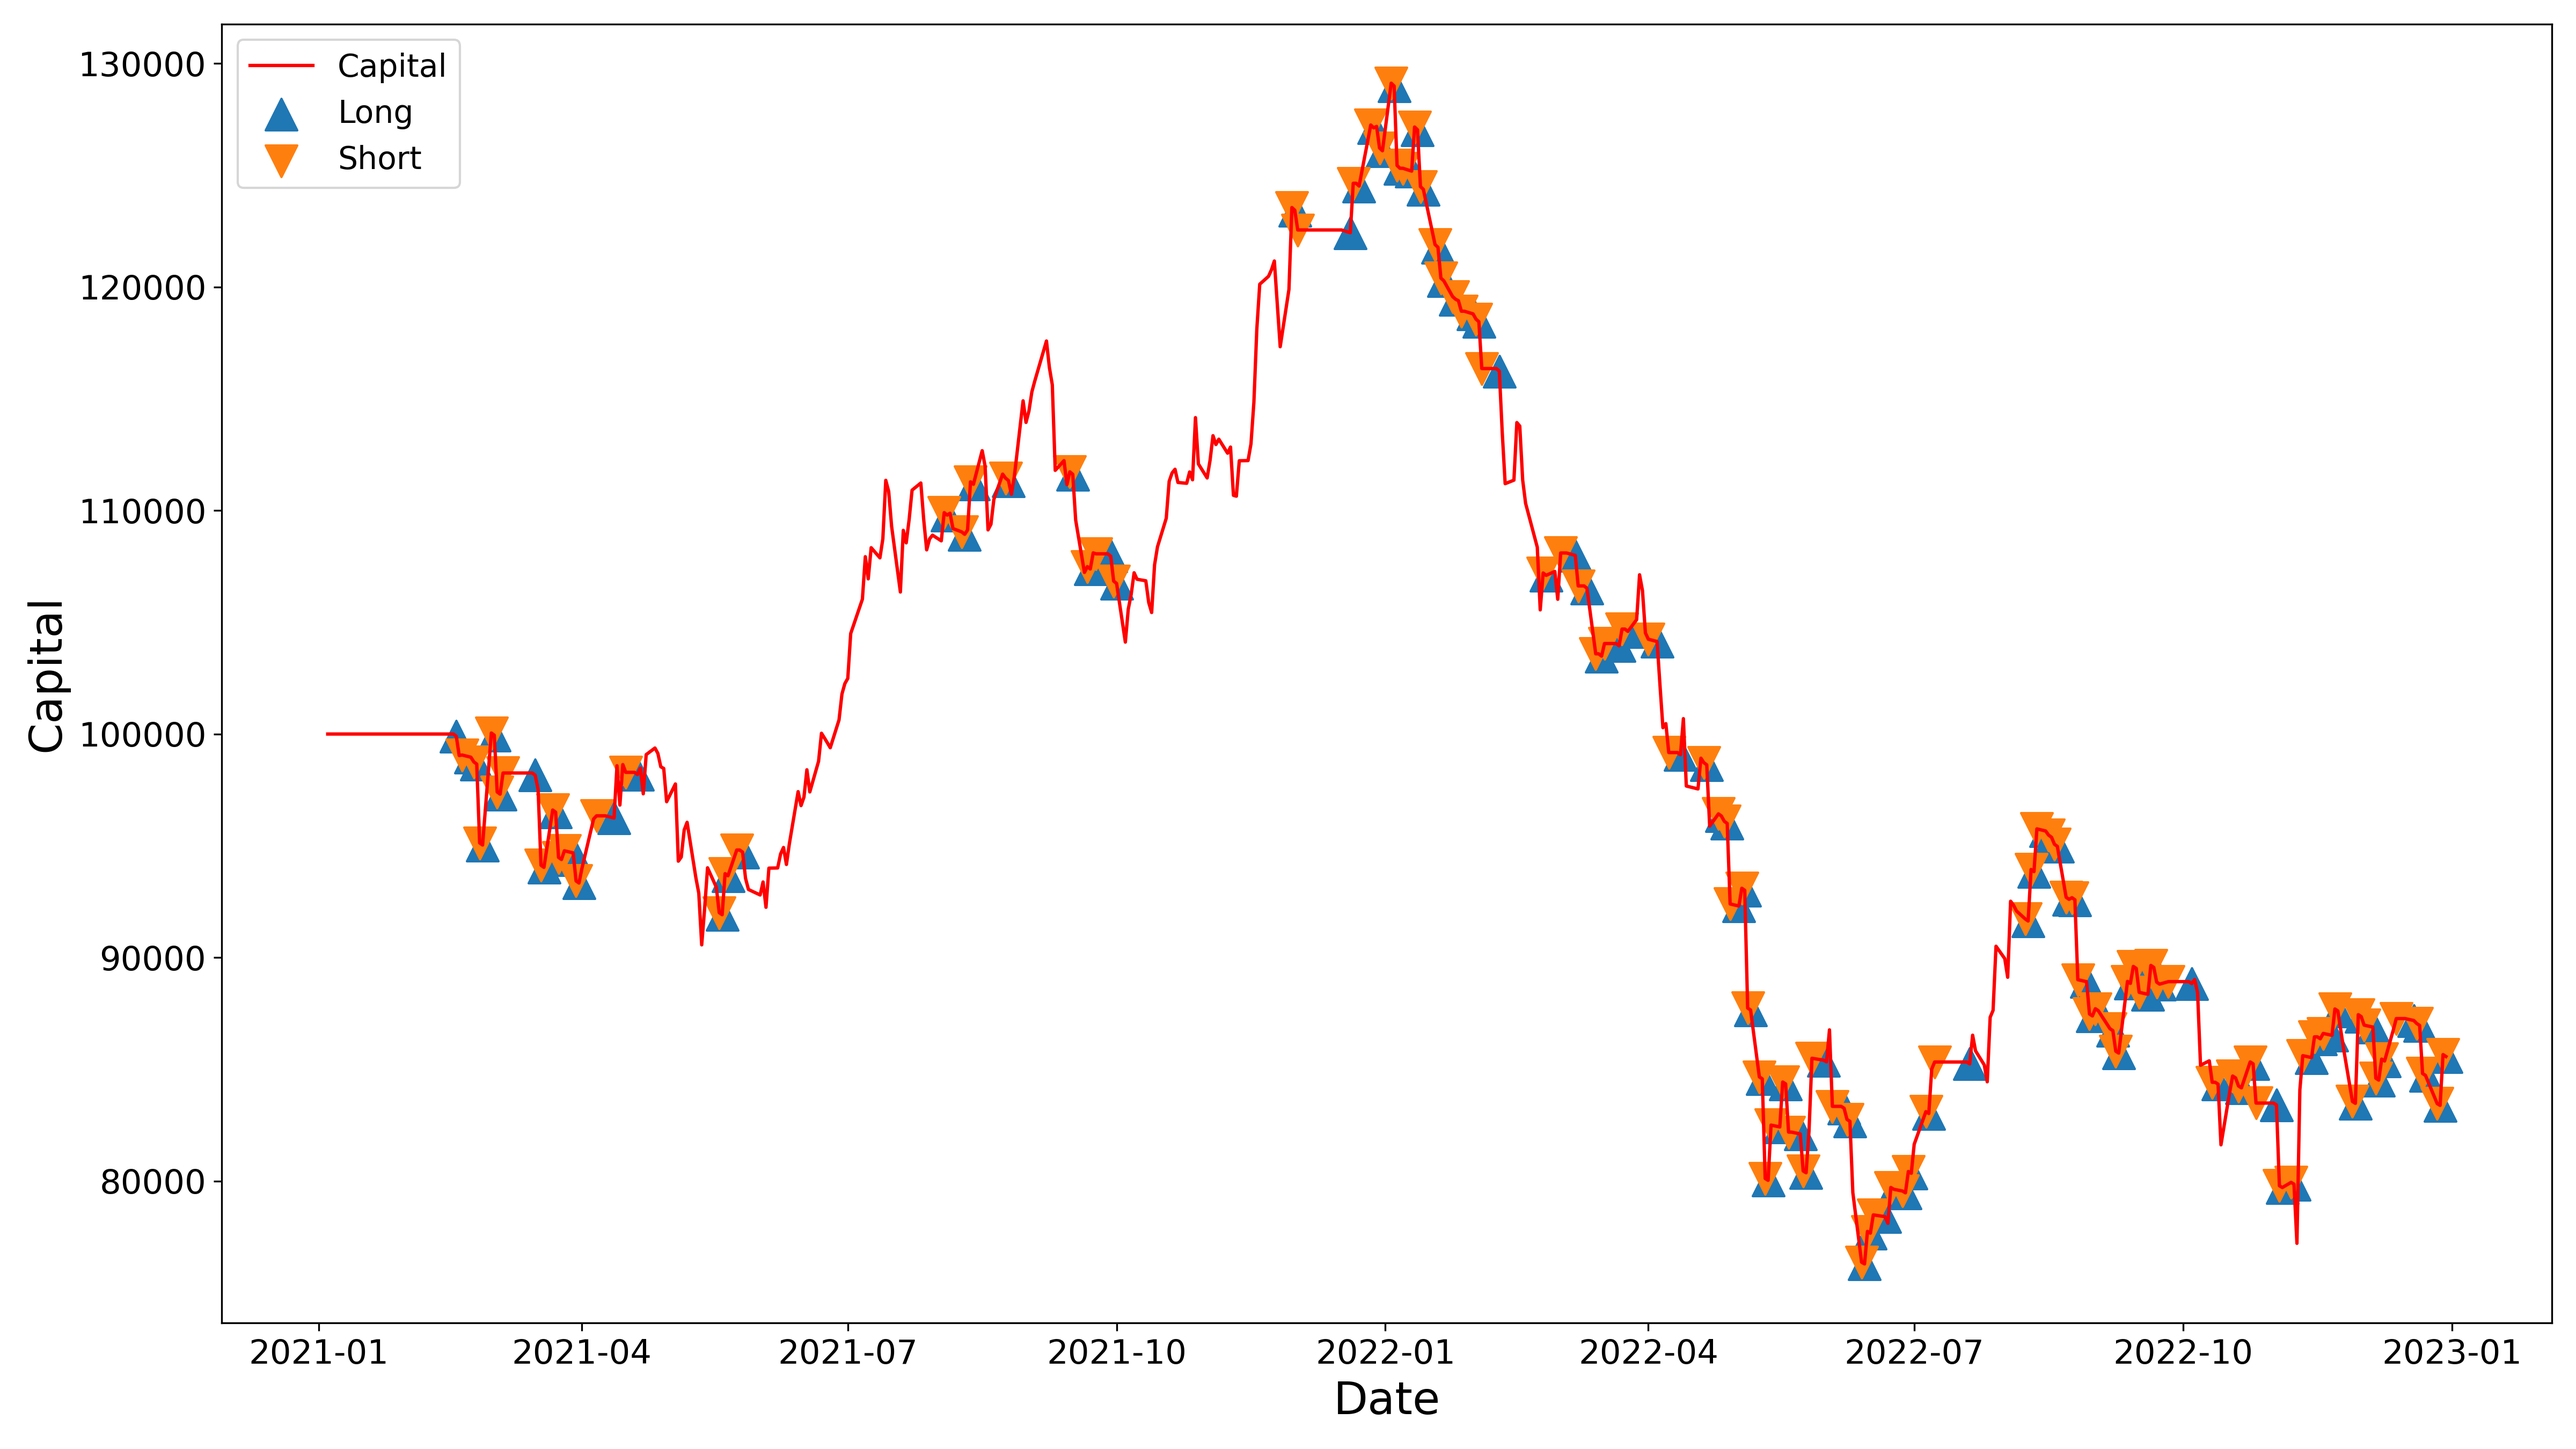
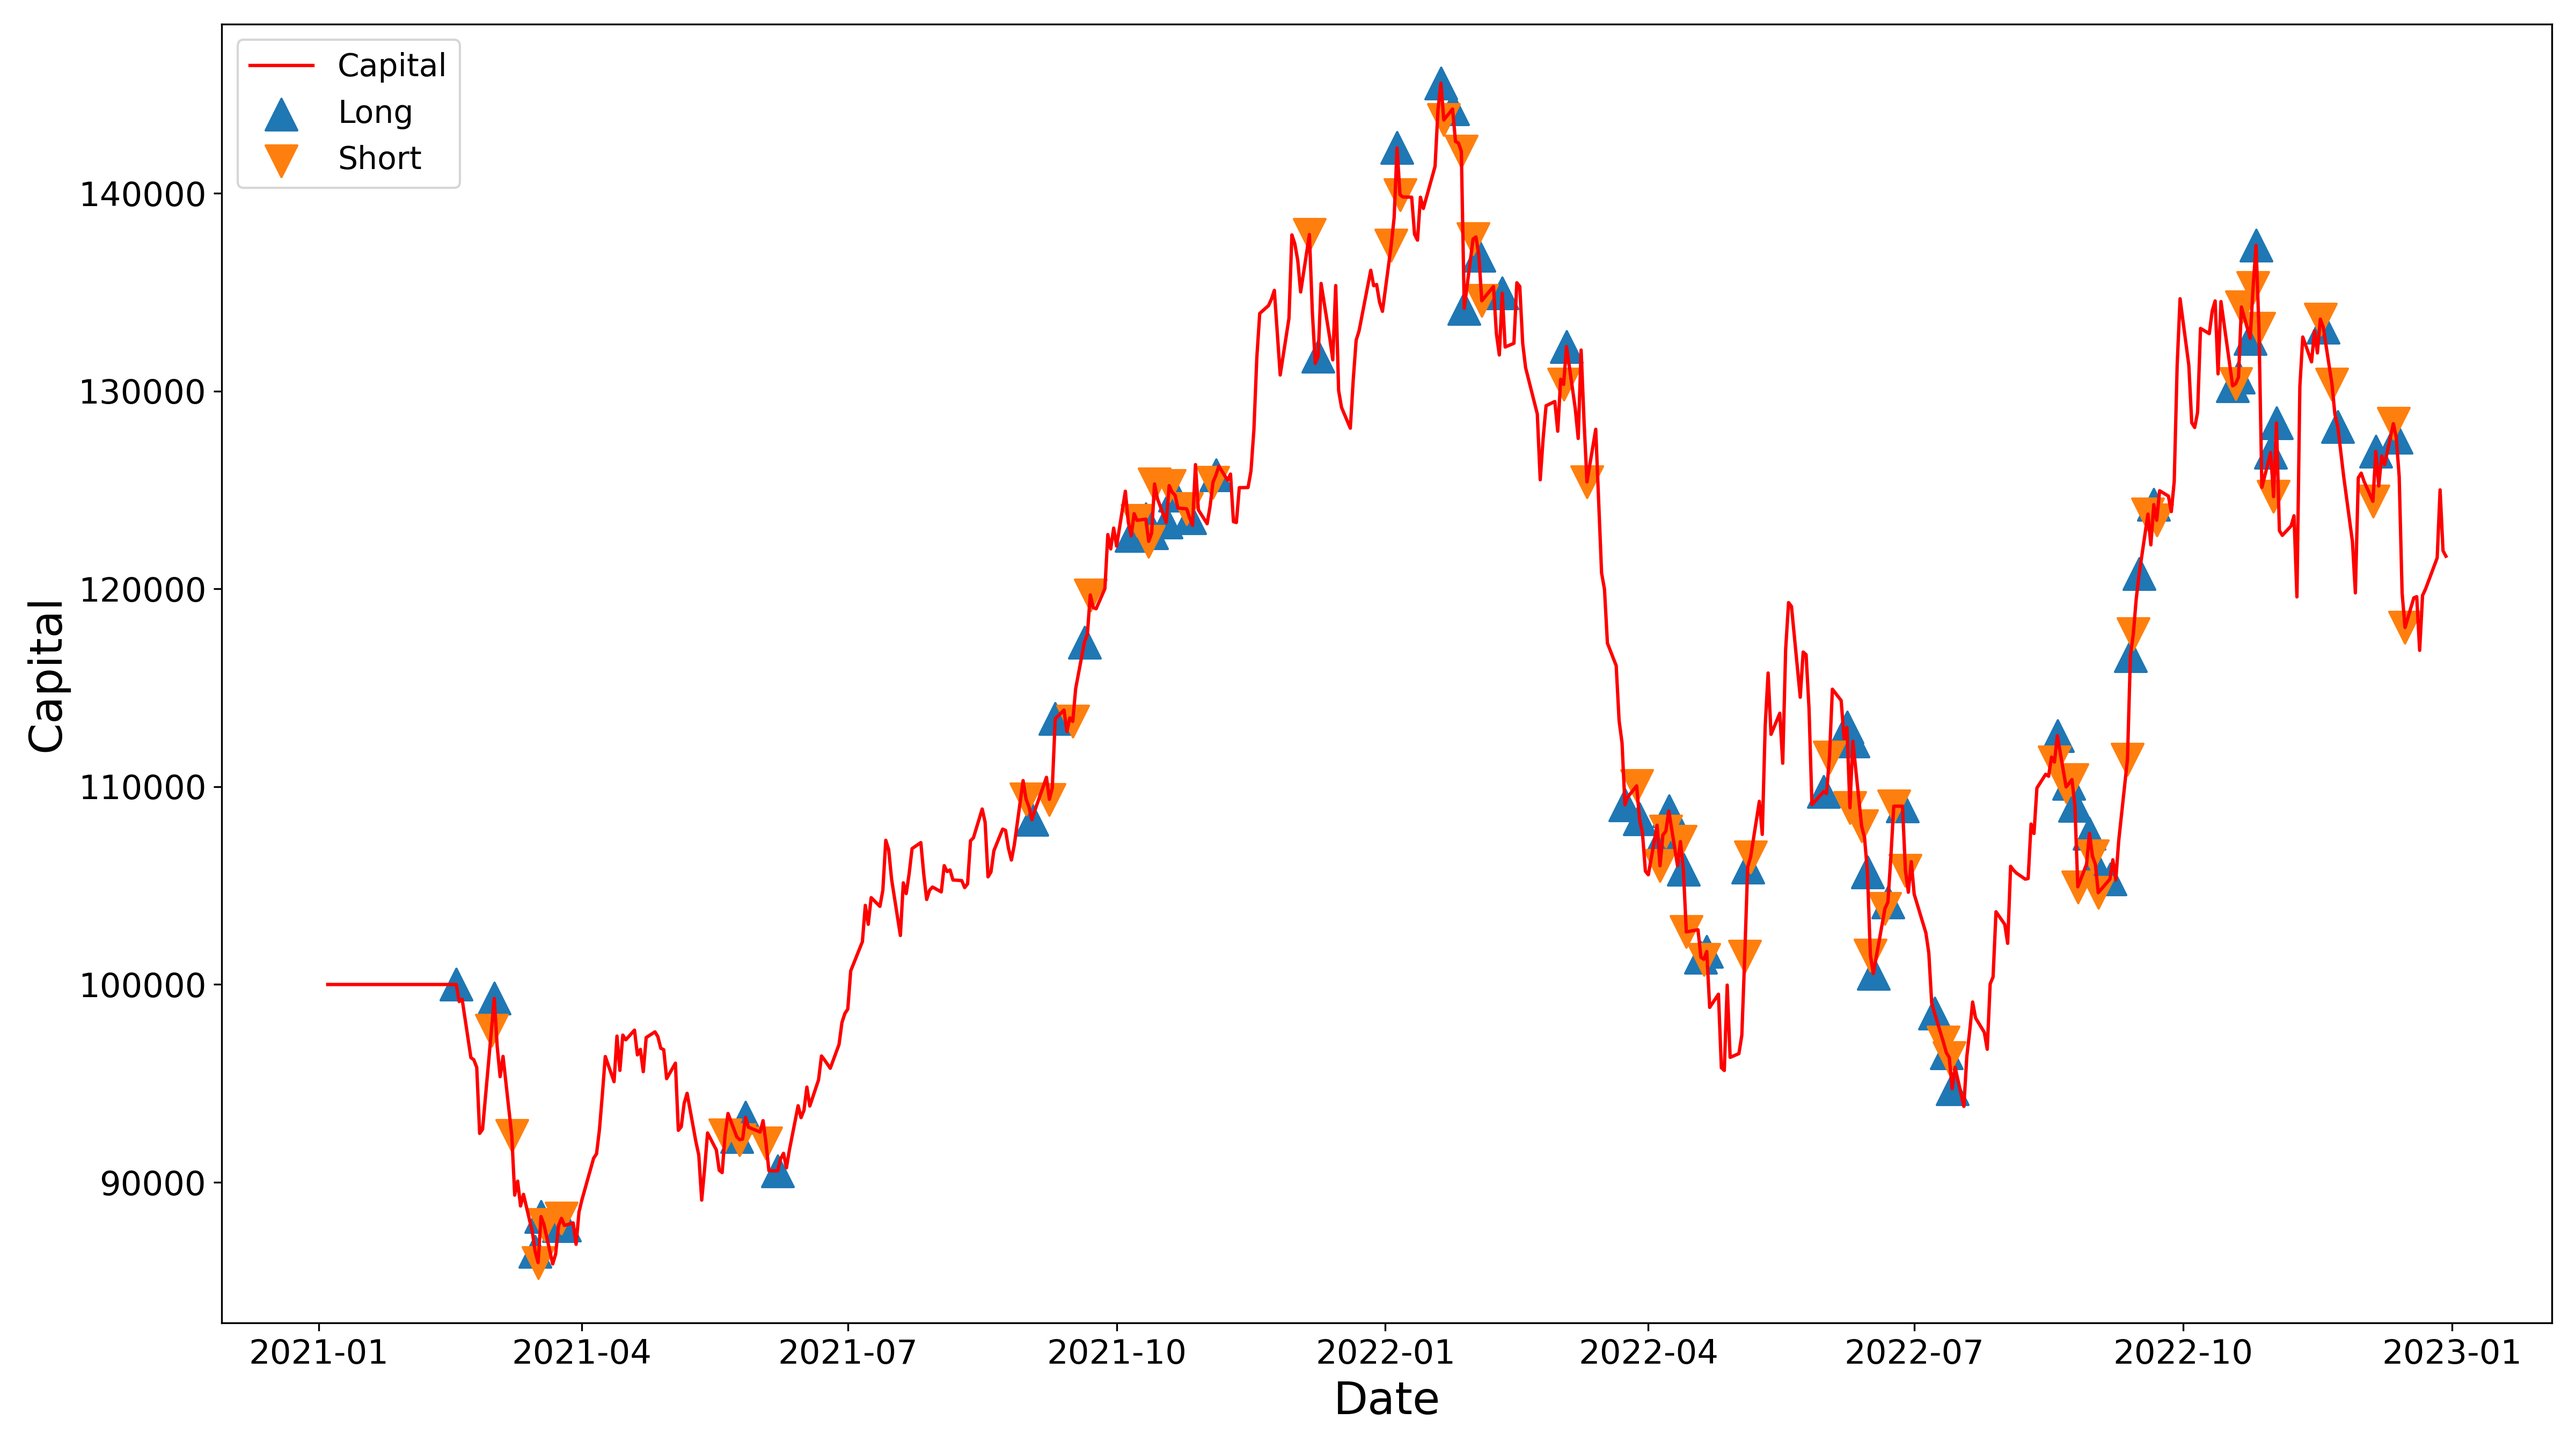
New trading environment implementation, design change, tdqn update

diff --git a/src/ai_TDQN.py b/src/ai_TDQN.py
@@ -82,85 +82,6 @@ class TDQNAgent():
         return self.epsilonValue
 
 
-
-    def DataPreProcessing(self, testingFlag = False):
-
-        if testingFlag == True:
-            DataAugmentation = da.DataAugmentation()
-            env = DataAugmentation.lowPassFilter(self.TrainingEnvironment, 5)
-        else:
-            env = self.TrainingEnvironment
-
-        close = env.dataFrame.Close.values
-        low = env.dataFrame.Low.values
-        high = env.dataFrame.High.values
-        volume = env.dataFrame.Volume.values
-
-        normalizationCoefficients = {"Returns": [], "DeltaPrice": [], "HighLow": [0,1], "Volume": []}
-        margin = 1
-
-        returns = [abs((close[i]-close[i-1])/close[i-1]) for i in range(1, len(close))]
-        normalizationCoefficients["Returns"] = [0, np.max(returns)*margin]
-
-        deltaPrice = [abs(high[i]-low[i]) for i in range(len(low))]
-        normalizationCoefficients["DeltaPrice"] = [0, np.max(deltaPrice)*margin]
-
-        normalizationCoefficients["Volume"] = [np.min(volume)/margin, np.max(volume)*margin]
-
-        return normalizationCoefficients
-
-
-
-    def StateProcessing(self, state, testingFlag = False):
-
-        if testingFlag == True:
-            coeffs = self.DataPreProcessing(testingFlag=True)
-        else:
-            coeffs = self.DataPreProcessing()
-
-        closePrices = [state[0][i] for i in range(len(state[0]))]
-        lowPrices = [state[1][i] for i in range(len(state[1]))]
-        highPrices = [state[2][i] for i in range(len(state[2]))]
-        volumes = [state[3][i] for i in range(len(state[3]))]
-
-
-        returns = [(closePrices[i]-closePrices[i-1])/closePrices[i-1] for i in range(1, len(closePrices))]
-        if coeffs["Returns"][0] != coeffs["Returns"][1]:
-            state[0] = [((x - coeffs["Returns"][0])/(coeffs["Returns"][1] - coeffs["Returns"][0])) for x in returns]
-        else:
-            state[0] = [0 for x in returns]
-
-        deltaPrice = [abs(highPrices[i]-lowPrices[i]) for i in range(1, len(lowPrices))]
-        if coeffs["DeltaPrice"][0] != coeffs["DeltaPrice"][1]:
-            state[1] = [((x - coeffs["DeltaPrice"][0])/(coeffs["DeltaPrice"][1] - coeffs["DeltaPrice"][0])) for x in deltaPrice]
-        else:
-            state[1] = [0 for x in deltaPrice]
-
-        closePricePosition = []
-        for i in range(1, len(closePrices)):
-            deltaPrice = abs(highPrices[i]-lowPrices[i])
-            if deltaPrice != 0:
-                item = abs(closePrices[i]-lowPrices[i])/deltaPrice
-            else:
-                item = 0.5
-            closePricePosition.append(item)
-        if coeffs["HighLow"][0] != coeffs["HighLow"][1]:
-            state[2] = [((x - coeffs["HighLow"][0])/(coeffs["HighLow"][1] - coeffs["HighLow"][0])) for x in closePricePosition]
-        else:
-            state[2] = [0.5 for x in closePricePosition]
-
-        volumes = [volumes[i] for i in range(1, len(volumes))]
-        if coeffs["Volume"][0] != coeffs["Volume"][1]:
-            state[3] = [((x - coeffs["Volume"][0])/(coeffs["Volume"][1] - coeffs["Volume"][0])) for x in volumes]
-        else:
-            state[3] = [0 for x in volumes]
-
-       
-        # Process the state structure to obtain the appropriate format
-        state = [item for sublist in state for item in sublist]
-
-        return state
-
     def RewardProcessing(self, reward):
         return np.clip(reward, -self.tdqnSettings.rewardClipping, self.tdqnSettings.rewardClipping)
 
@@ -264,7 +185,7 @@ class TDQNAgent():
                 print("{} Training: Episode {}".format(stockCodePadded, episode))
 
             env.reset()
-            env.SetStartingPoint(random.randrange(env.dataFrameLength))
+            env.SetRandomStartingPoint()
             state = env.state
             previousAction = 0
             done = 0

diff --git a/src/tf_TradingOperationsNew.py b/src/tf_TradingOperationsNew.py
@@ -270,6 +270,7 @@ class DummyPosition():
 
 
     def PlotActionsCapital(self, saveFileName, showFlag = False):
+        self.ToDataFrame()
         buyHistory, sellHistory = self.ParseActions()
         idx = np.argwhere(~np.isnan(buyHistory))
         idx = idx.flatten()
@@ -285,8 +286,8 @@ class DummyPosition():
 
         fig, ax1 = plt.subplots()
         ax1.plot(self.dataFrame.index, self.dataFrame["Value"], "r", label="Capital")
-        ax1.scatter(self.dataFrame.index[idx], buys, s=200, marker="^", label="Long")
-        ax1.scatter(self.dataFrame.index[idxSell], sells, s=200, marker="v", label="Short")
+        ax1.scatter(self.dataFrame.index[idx], buys, s=100, marker="^", label="Long")
+        ax1.scatter(self.dataFrame.index[idxSell], sells, s=100, marker="v", label="Short")
         ax1.set_xlabel("Date", fontsize=20)
         ax1.set_ylabel("Capital", fontsize=20)
         ax1.legend(loc="upper left", fontsize=14)
@@ -296,13 +297,14 @@ class DummyPosition():
         figure.set_size_inches(16,9)
         plt.tight_layout()
 
-        # plt.savefig(saveFileName + ".png", format = "png", dpi=300)
+        plt.savefig(saveFileName + ".png", format = "png", dpi=300)
         if showFlag == True:
             plt.show()
 
 
 
     def PlotActionsCandle(self, saveFileName, showFlag = False):
+        self.ToDataFrame()
         buyHistory, sellHistory = self.ParseActions()
         idx = np.argwhere(~np.isnan(buyHistory))
         idx = idx.flatten()
@@ -319,6 +321,7 @@ class DummyPosition():
 
 
     def PlotActionsPrice(self, saveFileName, showFlag = False):
+        self.ToDataFrame()
         buyHistory, sellHistory = self.ParseActions()
         idx = np.argwhere(~np.isnan(buyHistory))
         idx = idx.flatten()
@@ -330,8 +333,8 @@ class DummyPosition():
 
         fig, ax1 = plt.subplots()
         ax1.plot(self.dataFrame.index, self.dataFrame["Close"], "r", label="Price")
-        ax1.scatter(self.dataFrame.index[idx], buys, s=200, marker="^", label="Long")
-        ax1.scatter(self.dataFrame.index[idxSell], sells, s=200, marker="v", label="Short")
+        ax1.scatter(self.dataFrame.index[idx], buys, s=100, marker="^", label="Long")
+        ax1.scatter(self.dataFrame.index[idxSell], sells, s=100, marker="v", label="Short")
         ax1.set_xlabel("Date", fontsize=20)
         ax1.set_ylabel("Price", fontsize=20)
         ax1.legend(loc="upper left", fontsize=14)

diff --git a/src/main.py b/src/main.py
@@ -1,6 +1,6 @@
 import multiprocessing as mp
 import yfinance as yf
-import tf_TradingOperations as to
+import tf_TradingOperationsNew as to
 import ai_TradingEnvironment as te
 import ai_TDQN as tdqn
 import pandas as pd
@@ -9,6 +9,7 @@ import torch
 import numpy as np
 import random
 import os
+from cm_common import ReadFromFile
 
 device = torch.device('cuda:'+str(0) if torch.cuda.is_available() else 'cpu')
 torch.manual_seed(0)
@@ -16,7 +17,7 @@ random.seed(0)
 np.random.seed(0)
 
 
-networkSettings = tdqn.networkSettings_(inputLayerSize=117, hiddenLayerSize=512, outputLayerSize=2, dropout=0.2)
+networkSettings = tdqn.networkSettings_(inputLayerSize=121, hiddenLayerSize=512, outputLayerSize=2, dropout=0.2)
 
 tdqnSettings = tdqn.tdqnSettings_(gamma=0.4, 
                                   epsilonStart=1.0, 
@@ -27,7 +28,7 @@ tdqnSettings = tdqn.tdqnSettings_(gamma=0.4,
                                   targetUpdateFrequency=500, 
                                   batchSize=32, 
                                   gradientClipping=1,
-                                  targetNetworkUpdate = 100, 
+                                  targetNetworkUpdate = 1000, 
                                   alpha=0.1, 
                                   numberOfEpisodes = 50,
                                   rewardClipping = 1
@@ -54,8 +55,8 @@ def InitializeTrainingTesting(stockName, identifierString, verbose = False):
     if verbose == True:
         print("Stock Name: " + stockName + identifierString)
     
-    StockTraining = to.StockHandler(stockName, yf.download, yf.download, trainingHorizon)
-    StockTesting = to.StockHandler(stockName, yf.download, yf.download, testingHorizon)
+    StockTraining = to.StockHandler(stockName, ReadFromFile, ReadFromFile, trainingHorizon)
+    StockTesting = to.StockHandler(stockName, ReadFromFile, ReadFromFile, testingHorizon)
     PositionTraining = to.DummyPosition(StockTraining)
     PositionTesting = to.DummyPosition(StockTesting)
     TrainingEnvironment = te.TradingEnvironment(PositionTraining)

diff --git a/src/ai_TradingEnvironment.py b/src/ai_TradingEnvironment.py
@@ -3,6 +3,7 @@ import numpy as np
 from collections import namedtuple
 from sklearn.preprocessing import MinMaxScaler
 from scipy.ndimage import gaussian_filter
+import random
 
 
 Horizon = namedtuple("Horizon", ["start", "end", "interval"])
@@ -26,9 +27,9 @@ class StateObject():
                                                        self.Position.low[currentRange],
                                                        self.Position.close[currentRange],
                                                        self.Position.volume[currentRange])))
-        return np.concatenate((partialState.flatten("F"), [position]))
+        # return np.concatenate((partialState.flatten("F"), [position]))
+        return np.concatenate((partialState.flatten("F"), [position])).tolist()
         
-
 
 class TradingEnvironment(gym.Env):    
     def __init__(self, Position,  stateLength = 30):
@@ -99,3 +100,7 @@ class TradingEnvironment(gym.Env):
     def SetStartingPoint(self, startingPoint):
         self.t = np.clip(startingPoint, self.stateLength, self.Position.Length)
         self.Position.SetStartingPoint(self.t)
+
+
+    def SetRandomStartingPoint(self):
+        self.SetStartingPoint(random.randrange(self.Position.Length))
